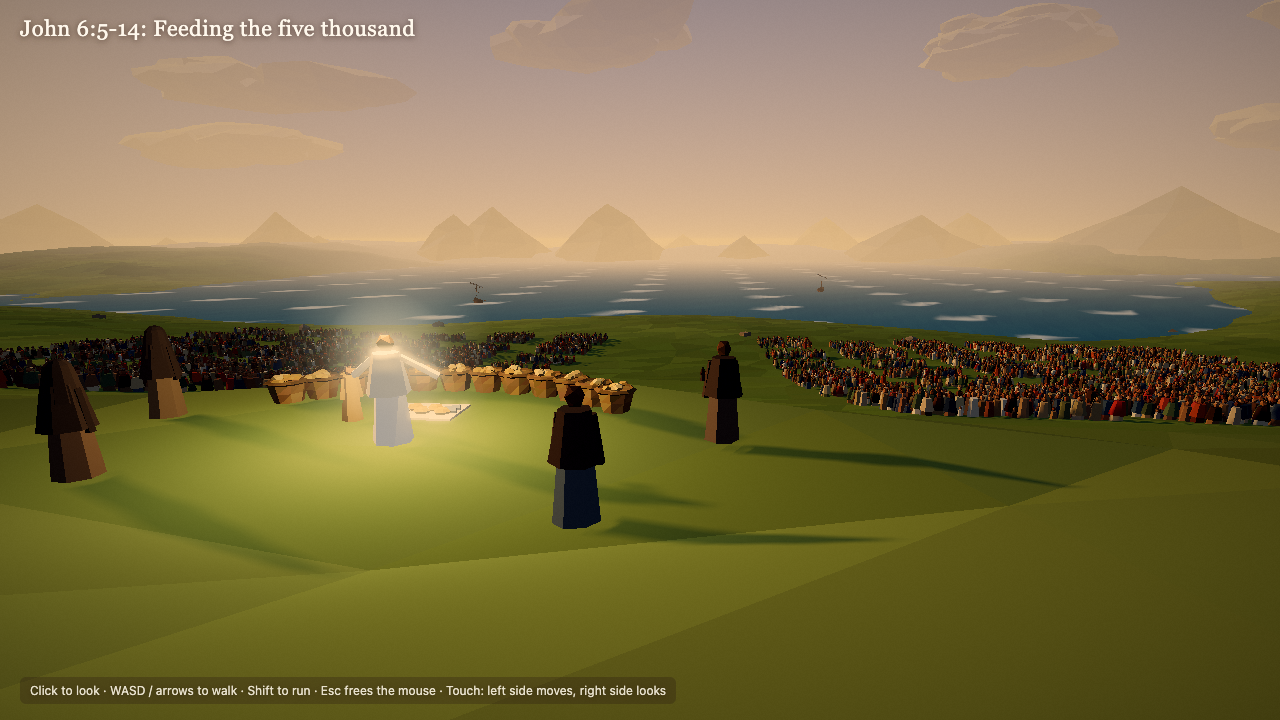
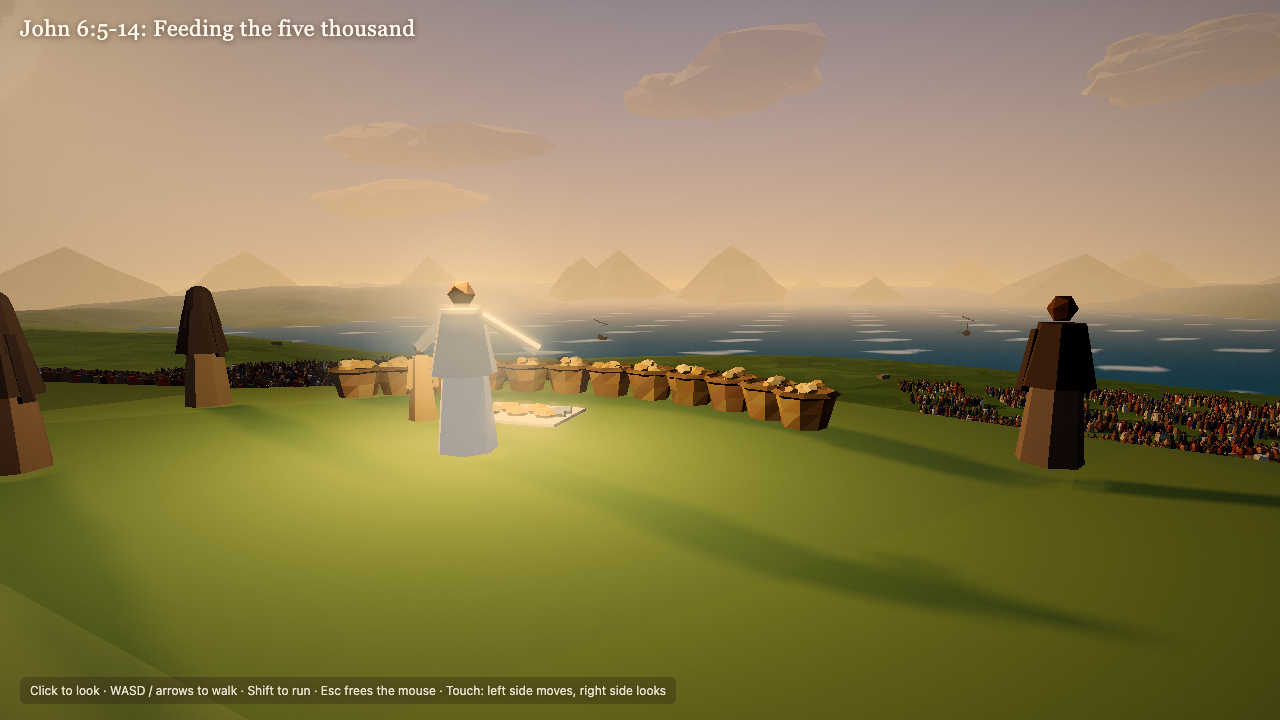
feat: polish lowpoly scenes nt-13 to nt-18

diff --git a/styles/lowpoly/scenes/lib/nt-13-kit.js b/styles/lowpoly/scenes/lib/nt-13-kit.js
@@ -280,3 +280,111 @@ export function skyUniforms(scene) {
   });
   return found;
 }
+
+// A sick person lying on a mat under a blanket, head on a rolled cloth at local -z.
+export function sickBed(ctx, { x, z, y, yaw = 0, robe = '#8b6b4a', blanket = '#b59a72', skin = '#9b6a46', mat = '#9c7c52', hair = '#3a2a20' }) {
+  const base = y ?? ctx.heightAt(x, z);
+  const at = frame(x, z, yaw);
+  const put = (geo, lx, ly, lz, color, jitter = 0.05, rot = [0, 0, 0]) => {
+    const [px, pz] = at(lx, lz);
+    ctx.solid.add(geo, { position: [px, base + ly, pz], rotation: [rot[0], yaw + rot[1], rot[2]], color, jitter });
+  };
+  put(new THREE.BoxGeometry(1.0, 0.06, 2.15), 0, 0.04, 0.05, mat, 0.07);
+  put(new THREE.CylinderGeometry(0.12, 0.12, 0.62, 6).rotateZ(Math.PI / 2), 0, 0.17, -0.86, '#d8ccb0');
+  put(new THREE.IcosahedronGeometry(0.15, 0).scale(1, 0.95, 1.1), 0, 0.3, -0.74, skin, 0.03);
+  put(new THREE.IcosahedronGeometry(0.15, 0).scale(1.05, 0.7, 0.85), 0, 0.24, -0.84, hair, 0.04);
+  put(new THREE.BoxGeometry(0.56, 0.24, 0.3), 0, 0.17, -0.48, robe);
+  put(new THREE.BoxGeometry(0.66, 0.16, 1.25), 0, 0.13, 0.18, blanket, 0.06);
+  put(new THREE.BoxGeometry(0.48, 0.08, 1.1), 0, 0.24, 0.12, blanket, 0.06);
+  put(new THREE.BoxGeometry(0.66, 0.07, 0.14), 0, 0.28, -0.38, '#e2d6bc', 0.03);
+  put(new THREE.BoxGeometry(0.34, 0.16, 0.18), 0, 0.27, 0.74, blanket, 0.06);
+  for (const lz of [0.42, 0.56]) put(new THREE.BoxGeometry(0.68, 0.17, 0.06), 0, 0.135, lz, '#e6dcc4', 0.02);
+  for (const side of [-1, 1]) {
+    const spread = 0.32;
+    put(new THREE.CylinderGeometry(0.06, 0.065, 0.44, 5).rotateX(Math.PI / 2), side * 0.22, 0.31, -0.2, robe, 0.04, [0, -side * spread, 0]);
+    put(new THREE.BoxGeometry(0.11, 0.08, 0.14), side * (0.22 - 0.26 * Math.sin(spread)), 0.32, -0.2 + 0.26 * Math.cos(spread), skin, 0.03);
+  }
+}
+
+const UP = new THREE.Vector3(0, 1, 0);
+
+// A cylinder between two local points around an anchor, batched into ctx.solid.
+function limb(ctx, at, base, yaw, a, b, r0, r1, color, sides = 6) {
+  const va = new THREE.Vector3(...a), vb = new THREE.Vector3(...b);
+  const dir = vb.clone().sub(va);
+  const geo = new THREE.CylinderGeometry(r1, r0, dir.length(), sides);
+  geo.applyQuaternion(new THREE.Quaternion().setFromUnitVectors(UP, dir.normalize()));
+  const m = va.add(vb).multiplyScalar(0.5);
+  const [px, pz] = at(m.x, m.z);
+  ctx.solid.add(geo, { position: [px, base + m.y, pz], rotation: [0, yaw, 0], color, jitter: 0.05 });
+}
+
+// A person fallen on their face: kneeling, back bent, forehead and hands to the ground toward `face`.
+export function prostrate(ctx, { x, z, y, face, robe = '#7a5f44', mantle, skin = '#9b6a46', hair = '#3a2a20', scale = 1 }) {
+  const base = y ?? ctx.heightAt(x, z);
+  const yaw = Math.atan2(face[0] - x, face[1] - z);
+  const at = frame(x, z, yaw);
+  const s = scale;
+  const L = (p) => p.map((v) => v * s);
+  const put = (geo, p, color, rot = [0, 0, 0]) => {
+    const [px, pz] = at(p[0] * s, p[2] * s);
+    ctx.solid.add(geo, { position: [px, base + p[1] * s, pz], rotation: [rot[0], yaw + rot[1], rot[2]], scale: [s, s, s], color, jitter: 0.05 });
+  };
+  put(new THREE.BoxGeometry(0.42, 0.16, 0.62), [0, 0.08, -0.28], robe);
+  limb(ctx, at, base, yaw, L([0, 0.1, 0.02]), L([0, 0.62, -0.28]), 0.25 * s, 0.27 * s, robe, 7);
+  limb(ctx, at, base, yaw, L([0, 0.64, -0.24]), L([0, 0.42, 0.42]), 0.27 * s, 0.2 * s, robe, 7);
+  if (mantle) limb(ctx, at, base, yaw, L([0, 0.72, -0.18]), L([0, 0.52, 0.4]), 0.26 * s, 0.22 * s, mantle, 7);
+  put(new THREE.IcosahedronGeometry(0.14, 0).scale(1, 1.1, 1), [0, 0.17, 0.66], skin);
+  put(new THREE.IcosahedronGeometry(0.15, 0).scale(1.05, 1, 0.9), [0, 0.25, 0.6], mantle ?? hair);
+  for (const side of [-1, 1]) {
+    limb(ctx, at, base, yaw, L([side * 0.22, 0.44, 0.38]), L([side * 0.24, 0.07, 0.86]), 0.065 * s, 0.055 * s, mantle ?? robe, 5);
+    put(new THREE.BoxGeometry(0.11, 0.06, 0.17), [side * 0.24, 0.04, 0.96], skin);
+  }
+}
+
+// A jagged cluster of rock: one tall shard leaning out of a heap of smaller blocks.
+export function outcrop(ctx, { x, z, size = 2, color = '#8a8070', moss = null, collide = true }) {
+  const r = ctx.rand;
+  const y = ctx.heightAt(x, z);
+  const n = 3 + Math.floor(r() * 3);
+  for (let i = 0; i < n; i++) {
+    const a = r() * Math.PI * 2, d = i === 0 ? 0 : r.range(0.3, 0.9) * size;
+    const s = size * (i === 0 ? 1 : r.range(0.35, 0.6));
+    const px = x + Math.cos(a) * d, pz = z + Math.sin(a) * d;
+    ctx.solid.add(new THREE.DodecahedronGeometry(s * 0.6, 0), {
+      position: [px, ctx.heightAt(px, pz) + s * (i === 0 ? 0.45 : 0.15), pz],
+      rotation: [r.range(-0.25, 0.25), r() * 3, r.range(-0.25, 0.25)],
+      scale: [r.range(0.8, 1.1), i === 0 ? r.range(1.2, 1.7) : r.range(0.6, 0.9), r.range(0.7, 1)],
+      color: jitterRock(color, r),
+      jitter: 0.07,
+      shade: (c, ny) => (moss && ny > 0.75 ? c.set(moss) : darkenBottom(c, ny)),
+    });
+  }
+  if (collide) ctx.colliders.add({ x, z, w: size * 1.3, d: size * 1.3, bottom: y - 1, top: y + size * 1.2 });
+}
+
+function jitterRock(color, r) {
+  return new THREE.Color(color).offsetHSL(0, 0, r.range(-0.05, 0.05));
+}
+
+// Mountain grass: small clumps of blades, batched, with a few flowers.
+export function grassTufts(ctx, { center = [0, 0], radius = 12, inner = 0, count = 120, colors = ['#7c8a4a', '#6b7a3e', '#8e9656'], flowers = 0.1, avoid = [] }) {
+  const r = ctx.rand;
+  for (let i = 0; i < count; i++) {
+    const a = r() * Math.PI * 2, d = inner + Math.sqrt(r()) * (radius - inner);
+    const x = center[0] + Math.cos(a) * d, z = center[1] + Math.sin(a) * d;
+    if (avoid.some(([ax, az, ar]) => Math.hypot(x - ax, z - az) < ar)) continue;
+    const y = ctx.heightAt(x, z);
+    const h = r.range(0.25, 0.55);
+    const color = r.pick(colors);
+    for (let k = 0; k < 4; k++) {
+      ctx.solid.add(new THREE.ConeGeometry(0.06, h, 3), {
+        position: [x + r.range(-0.15, 0.15), y + h / 2 - 0.03, z + r.range(-0.15, 0.15)],
+        rotation: [r.range(-0.35, 0.35), r() * 3, r.range(-0.35, 0.35)],
+        color,
+        jitter: 0.08,
+      });
+    }
+    if (r() < flowers) ctx.solid.add(new THREE.OctahedronGeometry(0.06, 0), { position: [x, y + h + 0.02, z], color: r.pick(['#e8e0f0', '#f0d860', '#c890d0']), jitter: 0.05 });
+  }
+}

diff --git a/styles/lowpoly/scenes/nt-17.js b/styles/lowpoly/scenes/nt-17.js
@@ -1,7 +1,7 @@
 // Matthew 17:1-8. The top of a high mountain above a sea of clouds. Christ is transfigured, his raiment
 // white as the light, with Moses and Elias beside him. A bright cloud overshadows them, and Peter, James
 // and John have fallen on their faces. -z is north toward Christ.
-import { person } from './lib/nt-13-kit.js';
+import { person, prostrate, outcrop, grassTufts } from './lib/nt-13-kit.js';
 
 const TOP = 60;
 const CHRIST = [0, -8.3];
@@ -19,12 +19,12 @@ export default {
   sky: { top: '#2f5aa6', horizon: '#e4ecf4', ground: '#f0f2f4', sunColor: '#fff6e0', glow: 0.8 },
   fog: { color: '#dfe6ee', near: 120, far: 900 },
   clouds: { count: 170, seed: 17, shadow: '#b8c0d0', lit: '#ffffff', rim: '#ffffff', distance: [110, 800], altitude: [18, 44], hole: 0 },
-  mountains: { count: 30, color: '#7a8296', radius: [600, 820], height: [60, 140], haze: 0.55 },
+  mountains: { count: 30, color: '#7a8296', radius: [600, 820], height: [60, 140], haze: 0.32 },
   bloom: { strength: 0.45, radius: 0.5, threshold: 0.88 },
   grade: { saturation: 1.05, contrast: 1.05, vignette: 0.36, shadowTint: '#283a6a', highlightTint: '#fff6e4' },
   shadow: { center: [0, -4], radius: 30 },
 
-  player: { start: [1.0, 5.5], yaw: 0.05, pitch: 0.1, eye: 1.65, speed: 3.5 },
+  player: { start: [3.6, 3.8], yaw: 0.32, pitch: 0.02, eye: 1.65, speed: 3.5 },
 
   terrain: {
     size: 1300,
@@ -33,11 +33,14 @@ export default {
     hills: 60,
     bumps: 0.5,
     flats: [
-      { x: 0, z: -4, r: 14, falloff: 150, height: TOP },
-      { x: 0, z: -4, r: 12, falloff: 10, height: TOP },
+      { x: 0, z: -4, r: 16, falloff: 46, height: TOP - 3 },
+      { x: 0, z: -4, r: 9, falloff: 9, height: TOP },
     ],
     colors: { ground: '#8a8270', groundAlt: '#7a7462', grass: '#7c8458', high: '#9a9284', rock: '#6e665c' },
-    patches: [{ x: 0, z: -4, r: 18, color: '#a49a86', strength: 0.6, rough: 0.5 }],
+    patches: [
+      { x: 0, z: -4, r: 14, color: '#8a8a62', strength: 0.55, rough: 0.7 },
+      { x: 0, z: -4, r: 6, color: '#a49a86', strength: 0.6, rough: 0.5 },
+    ],
   },
 
   scatter: [
@@ -56,6 +59,7 @@ export default {
     ledge(0, -8, 4.2, 2.6, 0.6);
     ledge(0, -8.3, 1.3, 1.1, 1.0);
 
+    const r = ctx.rand;
     const lift = TOP + 0.5;
     person(ctx, {
       x: CHRIST[0], z: CHRIST[1], y: TOP + 0.9, face: [0, 10], robe: '#ffffff', mantle: '#fffaf0', skin: '#fff4e0', arms: 'out', emissive: 0.35, scale: 1.1,
@@ -70,14 +74,26 @@ export default {
     }
 
     // Peter, James and John fallen on their faces toward the vision.
-    for (const [x, z, robe, mantle] of [[-2.6, 0.2, '#7a5f44', '#4f3c2c'], [0.2, 1.4, '#5e6a74', '#3e4650'], [2.8, 0.4, '#8c6a46', '#5a4430']]) {
-      person(ctx, { x, z, y: TOP, face: CHRIST, pose: 'bow', robe, mantle, skin: '#9b6a46', collide: false });
+    for (const [x, z, robe, mantle] of [[-3.4, -1.2, '#7a5f44', '#4f3c2c'], [0.2, -3.0, '#5e6a74', '#3e4650'], [4.4, -2.4, '#8c6a46', '#5a4430']]) {
+      prostrate(ctx, { x, z, face: CHRIST, robe, mantle, skin: '#9b6a46', scale: 1.05 });
+    }
+
+    // Weathered rock outcrops, grass and loose stones on the summit, with the land falling away beyond.
+    for (const [x, z, size] of [[-7.5, -13, 2.6], [-4.6, -15, 1.6], [7, -13.5, 2.2], [10.5, -8, 1.8], [-11, -6, 2.0], [-10, 3, 1.5], [9.5, 3.5, 1.7], [12.5, -1, 1.2], [-6.5, 9, 1.4], [7, 10, 1.6], [-13, -12, 2.4], [13, -14, 2.8]]) {
+      outcrop(ctx, { x, z, size, color: '#8a8272', moss: '#7c8452' });
+    }
+    grassTufts(ctx, { center: [0, -4], radius: 15, count: 260, avoid: [[0, -8, 5.5], [0, -2, 4]] });
+    grassTufts(ctx, { center: [0, -4], inner: 15, radius: 30, count: 160, colors: ['#7c8a4a', '#6b7a3e'] });
+    for (let i = 0; i < 70; i++) {
+      const a = r() * Math.PI * 2, d = r.range(5, 16);
+      const x = Math.cos(a) * d, z = -4 + Math.sin(a) * d;
+      if (Math.hypot(x, z + 8) < 5) continue;
+      ctx.solid.add(new THREE.DodecahedronGeometry(r.range(0.08, 0.28), 0), { position: [x, ctx.heightAt(x, z) + 0.03, z], rotation: [r() * 3, r() * 3, 0], scale: [1, 0.6, 1], color: r.pick(['#9a907e', '#8a8070', '#a8a090']), jitter: 0.06 });
     }
 
     // The bright cloud that overshadows them.
-    const cloudMat = new THREE.MeshLambertMaterial({ color: '#ffffff', emissive: '#fff6ea', emissiveIntensity: 0.25, flatShading: true, transparent: true, opacity: 0.72, depthWrite: false });
+    const cloudMat = new THREE.MeshLambertMaterial({ color: '#ffffff', emissive: '#fff6ea', emissiveIntensity: 0.25, flatShading: true, transparent: true, opacity: 0.6, depthWrite: false });
     const cloud = new THREE.Group();
-    const r = ctx.rand;
     for (let i = 0; i < 26; i++) {
       const a = r() * Math.PI * 2, d = Math.sqrt(r()) * 9;
       const puff = new THREE.Mesh(new THREE.IcosahedronGeometry(r.range(2.2, 4.2), 1), cloudMat);
@@ -86,7 +102,7 @@ export default {
       puff.rotation.set(r() * 3, r() * 3, 0);
       cloud.add(puff);
     }
-    cloud.position.set(CHRIST[0], TOP + 10.5, CHRIST[1] - 1.5);
+    cloud.position.set(CHRIST[0], TOP + 12, CHRIST[1] - 1.5);
     scene.add(cloud);
     const glow = new THREE.PointLight('#fff4e0', 12, 30, 1.2);
     glow.position.set(CHRIST[0], TOP + 7, CHRIST[1]);
@@ -98,7 +114,7 @@ export default {
 
     ctx.onFrame((t) => {
       cloud.rotation.y = t * 0.03;
-      cloud.position.y = TOP + 10.5 + Math.sin(t * 0.4) * 0.3;
+      cloud.position.y = TOP + 12 + Math.sin(t * 0.4) * 0.3;
     });
   },
 };

diff --git a/styles/lowpoly/scenes/nt-14.js b/styles/lowpoly/scenes/nt-14.js
@@ -1,6 +1,6 @@
 // John 5:2-9. The pool of Bethesda in Jerusalem: two pools ringed by four porches with a fifth between them,
 // the sick lying on mats in the shade. Christ stands on the middle porch over the man who has waited 38 years.
-import { person, createWater, house } from './lib/nt-13-kit.js';
+import { person, createWater, house, sickBed } from './lib/nt-13-kit.js';
 
 const FY = 1.5;
 const ROOF = FY + 5;
@@ -17,7 +17,7 @@ const lying = [];
 {
   let s = 7;
   const r = () => ((s = (s * 16807) % 2147483647) / 2147483647);
-  const add = (x, z, yaw) => (r() < 0.35 ? lying.push([x, z, yaw]) : sickPoints.push([x, z]));
+  const add = (x, z, yaw) => (r() < 0.55 ? lying.push([x, z, yaw]) : sickPoints.push([x, z]));
   for (let x = -19; x <= 19; x += 2.6) {
     if (Math.abs(x) < 2.5) continue;
     add(x + r() * 0.6, -15 + r() * 1.8, 0);
@@ -27,7 +27,8 @@ const lying = [];
     add(-18 + r() * 1.5, z + r() * 0.5, Math.PI / 2);
     if (z < -1 || z > 5) add(18 - r() * 1.5, z + r() * 0.5, -Math.PI / 2);
   }
-  for (let x = -12; x <= 12; x += 2.8) if (x < -3 || x > 4) add(x + r() * 0.5, (r() < 0.5 ? -1 : 1) * 1.25, 0);
+  lying.push([-3.9, 1.35, Math.PI / 2], [-7.0, -1.25, Math.PI / 2], [-10.4, -1.25, Math.PI / 2], [6.6, -1.25, -Math.PI / 2], [10.2, 1.3, -Math.PI / 2]);
+  sickPoints.push([-9.4, 1.2], [-12.2, -1.2], [4.6, 1.3], [8.4, 1.2], [12, -1.2]);
 }
 
 export default {
@@ -46,7 +47,7 @@ export default {
   grade: { saturation: 1.08, contrast: 1.06, vignette: 0.38, shadowTint: '#3a3060', highlightTint: '#fff0d0' },
   shadow: { center: [0, 0], radius: 40 },
 
-  player: { start: [3.6, 16.4], yaw: 0.2, pitch: -0.06, eye: 1.65, speed: 3.5 },
+  player: { start: [-7.0, 1.2], yaw: -1.62, pitch: -0.15, eye: 1.65, speed: 3.5 },
 
   terrain: {
     size: 1100,
@@ -144,9 +145,10 @@ export default {
 
     // The sick lying on mats.
     const robes = ['#8b6b4a', '#a0825c', '#6e5a44', '#b59a72', '#c4b090', '#94704e', '#d8cdb5'];
+    const blankets = ['#8c3a2a', '#4f5f78', '#6b6f3a', '#7a4e36', '#a0624a', '#5e4b6a', '#8a7a5a', '#3f5a52'];
+    const hair = ['#2e2018', '#4a3426', '#6a6058', '#d8d0c4'];
     lying.forEach(([x, z, yaw], i) => {
-      ctx.solid.box(0.9, 0.05, 2.0, { position: [x, FY + 0.08, z], rotation: [0, yaw, 0], color: i % 2 ? '#a8865a' : '#8d7350', jitter: 0.06 });
-      person(ctx, { x: x + Math.sin(yaw) * 0.8, z: z + Math.cos(yaw) * 0.8, y: FY, yaw: yaw + Math.PI, pose: 'supine', robe: robes[i % robes.length], skin: '#9b6a46', collide: false, hood: i % 3 === 0, mantle: i % 2 ? '#5a3d2b' : undefined });
+      sickBed(ctx, { x, z, y: FY, yaw, robe: robes[i % robes.length], blanket: blankets[(i * 3) % blankets.length], skin: i % 3 ? '#9b6a46' : '#a87652', mat: i % 2 ? '#a8865a' : '#8d7350', hair: hair[i % hair.length] });
     });
     for (const [x, z] of sickPoints) ctx.solid.box(1.0, 0.05, 1.6, { position: [x, FY + 0.08, z], rotation: [0, x * 0.3, 0], color: '#9c7c52', jitter: 0.08 });
 
@@ -159,7 +161,7 @@ export default {
       light: { color: '#fff0cf', intensity: 18, distance: 14 },
       halo: { size: 3.6, opacity: 0.4, color: '#fff3d6' },
     });
-    for (const [x, z, face] of [[3.6, 0.9, [1, 1.1]], [4.6, -1.0, [1, 1.1]], [-3.2, -1.0, [-0.9, 1.3]]]) {
+    for (const [x, z, face] of [[3.4, 0.9, [1, 1.1]], [3.0, -1.2, [1, 1.1]], [-0.4, -1.3, [-0.9, 1.3]]]) {
       person(ctx, { x, z, y: FY, face, robe: '#7a5d42', mantle: '#4f3f30', skin: '#8a5a3c', hood: true });
     }
 

diff --git a/styles/lowpoly/scenes/nt-13.js b/styles/lowpoly/scenes/nt-13.js
@@ -10,9 +10,9 @@ const disciples = [
   { x: -0.75, z: -2.7, pose: 'kneel', hood: true },
   { x: 0.55, z: -3.0, pose: 'stand', arms: 'out' },
   { x: 0.05, z: -3.7, pose: 'kneel', hood: true },
-  { x: -0.85, z: 0.7, pose: 'kneel' },
-  { x: 0.85, z: 1.05, pose: 'sit', hood: true },
-  { x: -1.0, z: 1.25, pose: 'stand' },
+  { x: -0.85, z: 0.9, pose: 'kneel' },
+  { x: 1.0, z: 1.2, pose: 'sit', hood: true },
+  { x: 0.95, z: -2.0, pose: 'kneel' },
   { x: -0.95, z: -1.6, pose: 'sit' },
 ];
 
@@ -35,7 +35,7 @@ export default {
   grade: { saturation: 0.95, contrast: 1.1, vignette: 0.5, shadowTint: '#1a2433', highlightTint: '#ffe6c8' },
   shadow: { center: [0, 0], radius: 20 },
 
-  player: { start: [-0.1, 3.9], yaw: 0.08, pitch: -0.04, eye: 1.65, speed: 2.5 },
+  player: { start: [0.0, 3.0], yaw: 0.04, pitch: -0.02, eye: 1.65, speed: 2.5 },
 
   terrain: {
     size: 1500,
@@ -62,17 +62,17 @@ export default {
 
     disciples.forEach((d, i) => {
       person(ctx, {
-        ...d, y: deck, parent: boat.group, face: [0.25, -0.6],
+        ...d, y: deck, parent: boat.group, face: [0.25, -0.4],
         robe: robes[i % robes.length], mantle: mantles[i % mantles.length], skin: skins[i % skins.length],
       });
       ctx.colliders.add({ x: d.x, z: d.z, w: 0.6, d: 0.6, bottom: deck, top: deck + 1.8 });
     });
     person(ctx, {
-      x: 0.25, z: -0.6, y: deck, parent: boat.group, face: [8, 2.5], robe: '#f6f1e6', mantle: '#ece3d0', skin: '#a8754f', arms: 'out', emissive: 0.35, scale: 1.05,
+      x: 0.25, z: -0.4, y: deck, parent: boat.group, face: [8, 3.5], robe: '#f6f1e6', mantle: '#ece3d0', skin: '#a8754f', arms: 'out', emissive: 0.35, scale: 1.05,
       light: { color: '#fff0d0', intensity: 14, distance: 14 },
       halo: { size: 3.2, opacity: 0.45, color: '#fff3d6' },
     });
-    ctx.colliders.add({ x: 0.25, z: -0.6, w: 0.6, d: 0.6, bottom: deck, top: deck + 1.9 });
+    ctx.colliders.add({ x: 0.25, z: -0.4, w: 0.6, d: 0.6, bottom: deck, top: deck + 1.9 });
 
     const others = [[-34, -52, 0.6], [46, -88, -0.4], [-70, 30, 1.2]].map(([x, z, rot], i) => {
       const b = createBoat(ctx, { len: 7.5, beam: 2.4, seed: 30 + i, sail: '#c9b896' });

diff --git a/styles/lowpoly/scenes/nt-16.js b/styles/lowpoly/scenes/nt-16.js
@@ -3,8 +3,8 @@
 // in the stern; a gap in the starboard rail lets you step out onto the water too. -z is the bow.
 import { person, createWater, createBoat, boatColliders } from './lib/nt-13-kit.js';
 
-const CHRIST = [4.6, -11.5];
-const PETER = [3.4, -8.8];
+const CHRIST = [4.2, -8.4];
+const PETER = [3.0, -6.0];
 
 const disciples = [
   { x: -0.6, z: -3.3, pose: 'stand', arms: 'out' },
@@ -33,7 +33,7 @@ export default {
   grade: { saturation: 0.9, contrast: 1.08, vignette: 0.5, shadowTint: '#101a38', highlightTint: '#e8f0ff' },
   shadow: { center: [2, -6], radius: 22 },
 
-  player: { start: [-0.2, 3.7], yaw: -0.3, pitch: -0.02, eye: 1.65, speed: 3 },
+  player: { start: [0.5, 0.9], yaw: -0.5, pitch: 0.0, eye: 1.65, speed: 3 },
 
   terrain: {
     size: 1400,
@@ -66,9 +66,9 @@ export default {
     boat.group.add(lamp);
 
     const christ = person(ctx, {
-      x: CHRIST[0], z: CHRIST[1], y: 0, face: PETER, robe: '#fbf7ee', mantle: '#ece4d2', skin: '#a8754f', arms: 'out', emissive: 0.55, scale: 1.08,
+      x: CHRIST[0], z: CHRIST[1], y: 0, face: PETER, robe: '#fbf7ee', mantle: '#ece4d2', skin: '#a8754f', arms: 'out', emissive: 0.38, scale: 1.1,
       light: { color: '#f2f0ff', intensity: 40, distance: 26 },
-      halo: { size: 5, opacity: 0.6, color: '#f4f2ff' },
+      halo: { size: 4.2, opacity: 0.38, color: '#f4f2ff' },
     });
     ctx.effects.ring({ position: [CHRIST[0], 0.15, CHRIST[1]], radius: 1.4, width: 0.8, color: '#dfe6ff', opacity: 0.35 });
     const peter = person(ctx, { x: PETER[0], z: PETER[1], y: -0.75, face: CHRIST, robe: '#6e5a44', mantle: '#4a3a2c', skin: '#9b6a46', arms: 'out', collide: false });

diff --git a/styles/lowpoly/scenes/nt-18.js b/styles/lowpoly/scenes/nt-18.js
@@ -23,7 +23,7 @@ export default {
   grade: { saturation: 1.08, contrast: 1.07, vignette: 0.4, shadowTint: '#3a2e5e', highlightTint: '#ffe6c0' },
   shadow: { center: [0, -8], radius: 40 },
 
-  player: { start: [2.6, 4.5], yaw: 0.14, pitch: 0.04, eye: 1.65, speed: 4 },
+  player: { start: [-1.9, -2.4], yaw: -0.36, pitch: 0.07, eye: 1.65, speed: 4 },
 
   terrain: {
     size: 1100,
@@ -96,7 +96,7 @@ export default {
     ctx.colliders.add({ x: tx - 3.2, z: faceZ + 2.1, w: 2.6, d: 0.6, bottom: 0, top: 2.7 });
 
     // Lazarus at the threshold, bound hand and foot with grave clothes and his face bound with a napkin.
-    const laz = person(ctx, { x: tx, z: faceZ + 1.7, y: 0, face: CHRIST, robe: '#ece6d6', skin: '#e4dccb', arms: 'down', scale: 1.0 });
+    const laz = person(ctx, { x: tx, z: faceZ + 2.5, y: 0, face: CHRIST, robe: '#ece6d6', skin: '#e4dccb', arms: 'down', scale: 1.0 });
     const bands = new THREE.MeshLambertMaterial({ color: '#c8bea6' });
     for (const [h, rad] of [[0.3, 0.29], [0.6, 0.255], [0.9, 0.225], [1.2, 0.2], [1.5, 0.15]]) {
       const ring = new THREE.Mesh(new THREE.TorusGeometry(rad, 0.03, 3, 8), bands);
@@ -104,7 +104,7 @@ export default {
       ring.position.y = h;
       laz.add(ring);
     }
-    const lazLight = new THREE.PointLight('#fff2d8', 6, 6, 1.5);
+    const lazLight = new THREE.PointLight('#fff2d8', 12, 9, 1.5);
     lazLight.position.set(tx, 2.2, faceZ + 3);
     ctx.scene.add(lazLight);
 

diff --git a/styles/lowpoly/scenes/nt-15.js b/styles/lowpoly/scenes/nt-15.js
@@ -41,7 +41,7 @@ export default {
   grade: { saturation: 1.1, contrast: 1.06, vignette: 0.4, shadowTint: '#2e3060', highlightTint: '#ffe4b8' },
   shadow: { center: [0, -10], radius: 70 },
 
-  player: { start: [5, 27], yaw: 0.1, pitch: -0.2, eye: 1.65, speed: 4.5 },
+  player: { start: [3.6, 23.4], yaw: 0.3, pitch: -0.13, eye: 1.65, speed: 4.5 },
 
   terrain: {
     size: 1500,
@@ -109,7 +109,7 @@ export default {
 
     // Disciples standing near Christ and moving among the companies with bread.
     const robes = ['#7b5f45', '#5f6b72', '#8c6f4e', '#6d5a48', '#4f5a62', '#94704e', '#5d4a3a', '#8a5a40'];
-    const near = [[-3.5, 20], [3.6, 20.5], [-5, 17], [5.4, 17.3]];
+    const near = [[-3.5, 20], [-1.6, 21.6], [-5, 17], [5.8, 16.6]];
     near.forEach(([x, z], i) => person(ctx, { x, z, face: [0, -30], robe: robes[i], mantle: '#4a3a2c', skin: '#9b6a46', hood: i % 2 === 0 }));
     const walkers = [[-5.5, -6], [-5.5, -24], [-16.5, -15], [5.5, -42], [27, -8], [-38, -26], [16, -33], [-27, -52]];
     walkers.forEach(([x, z], i) => {
